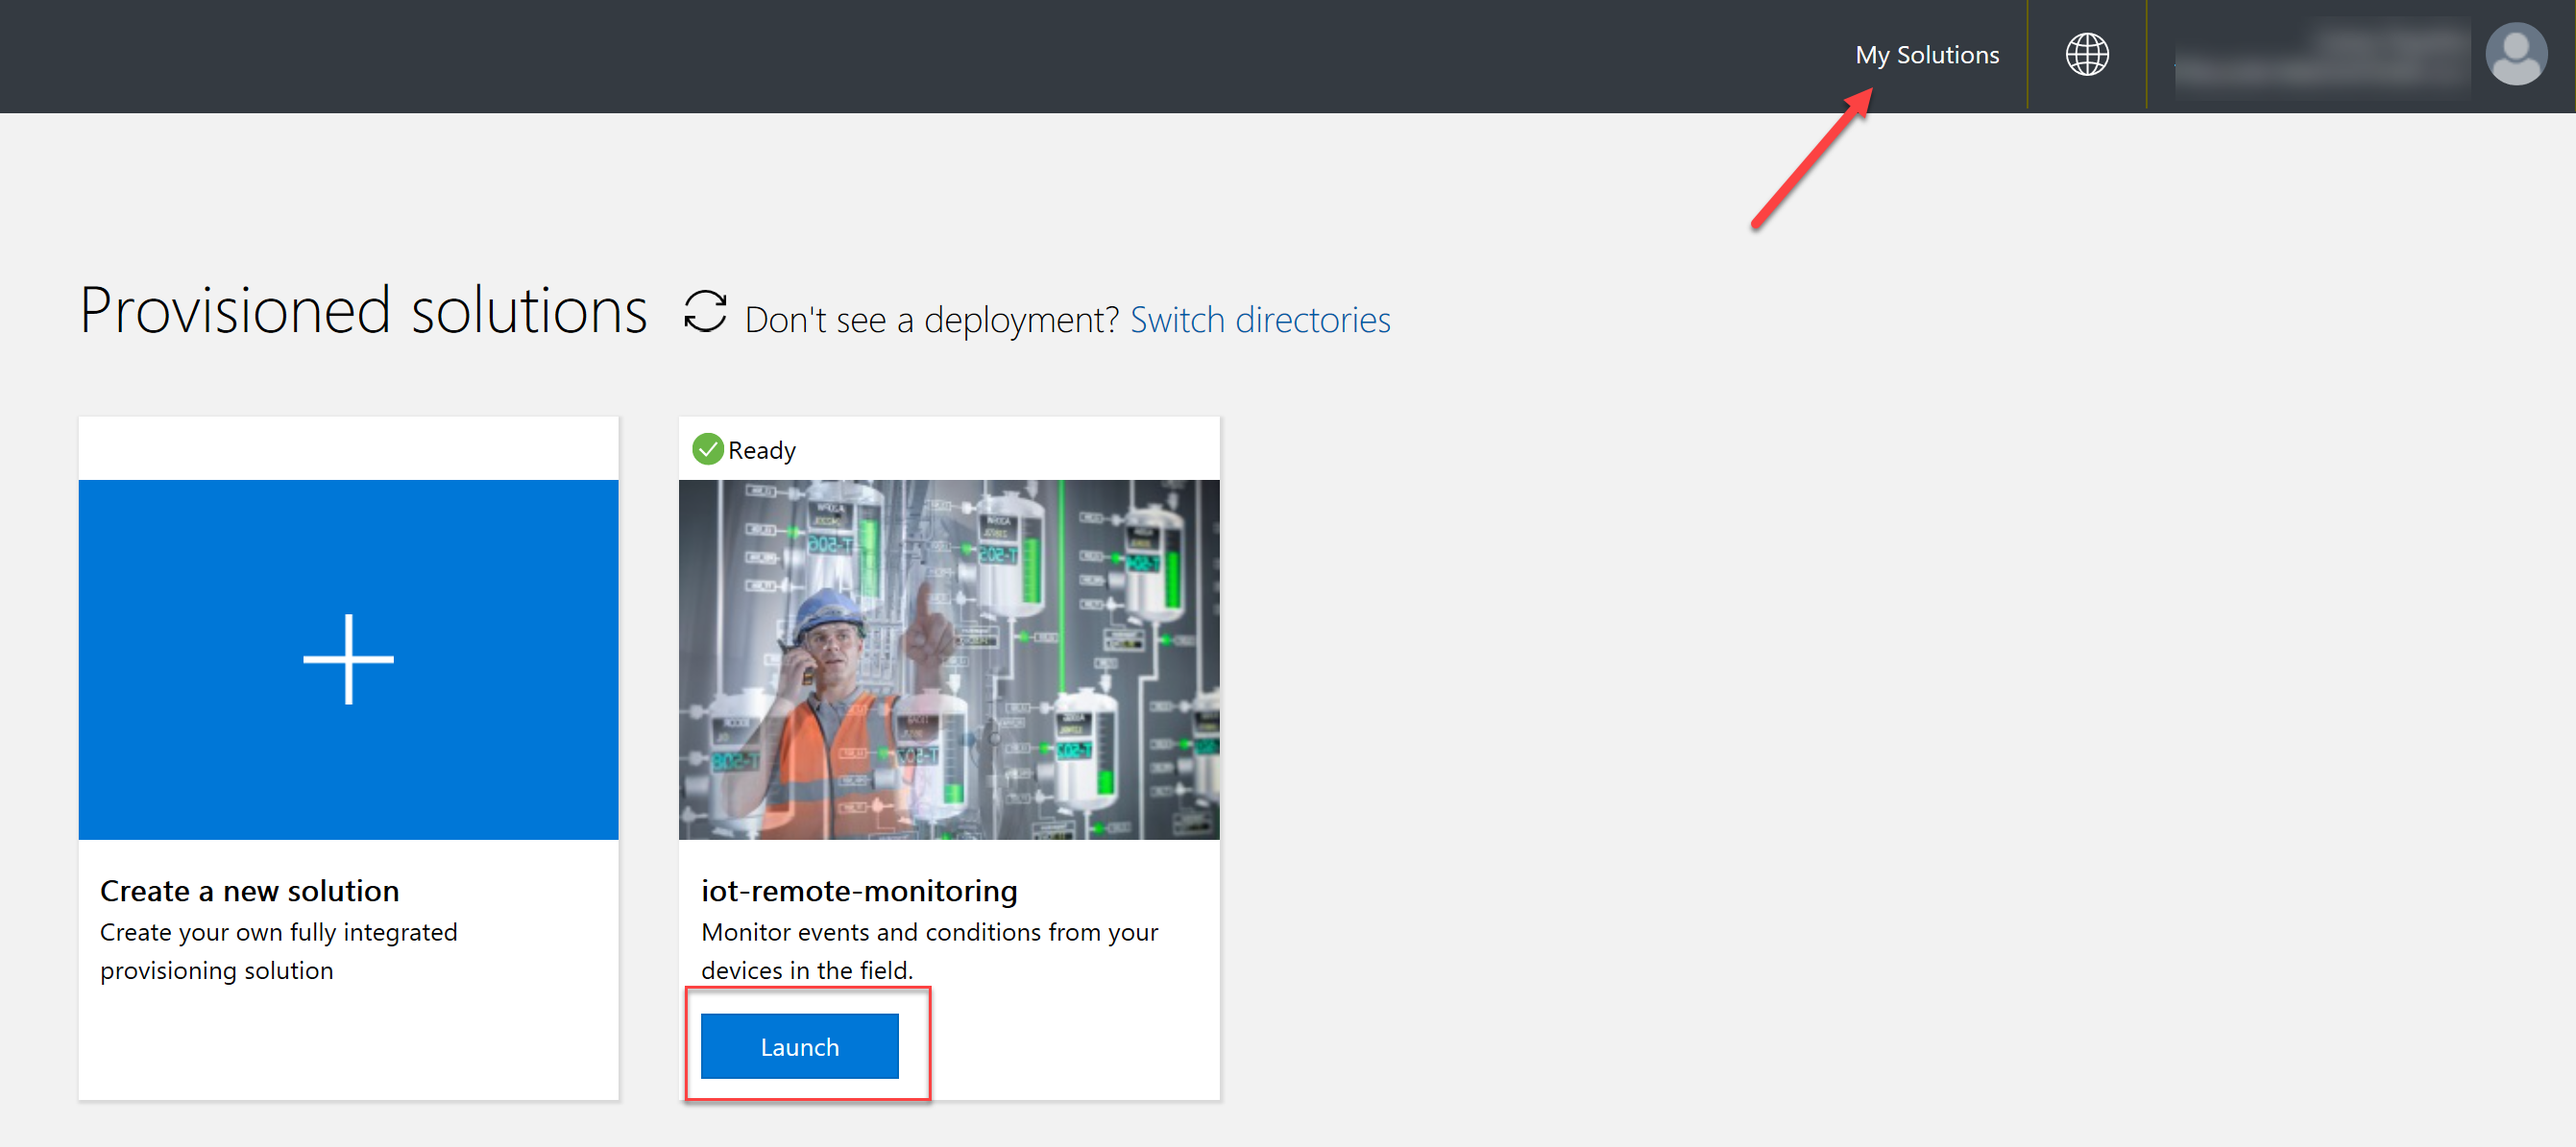
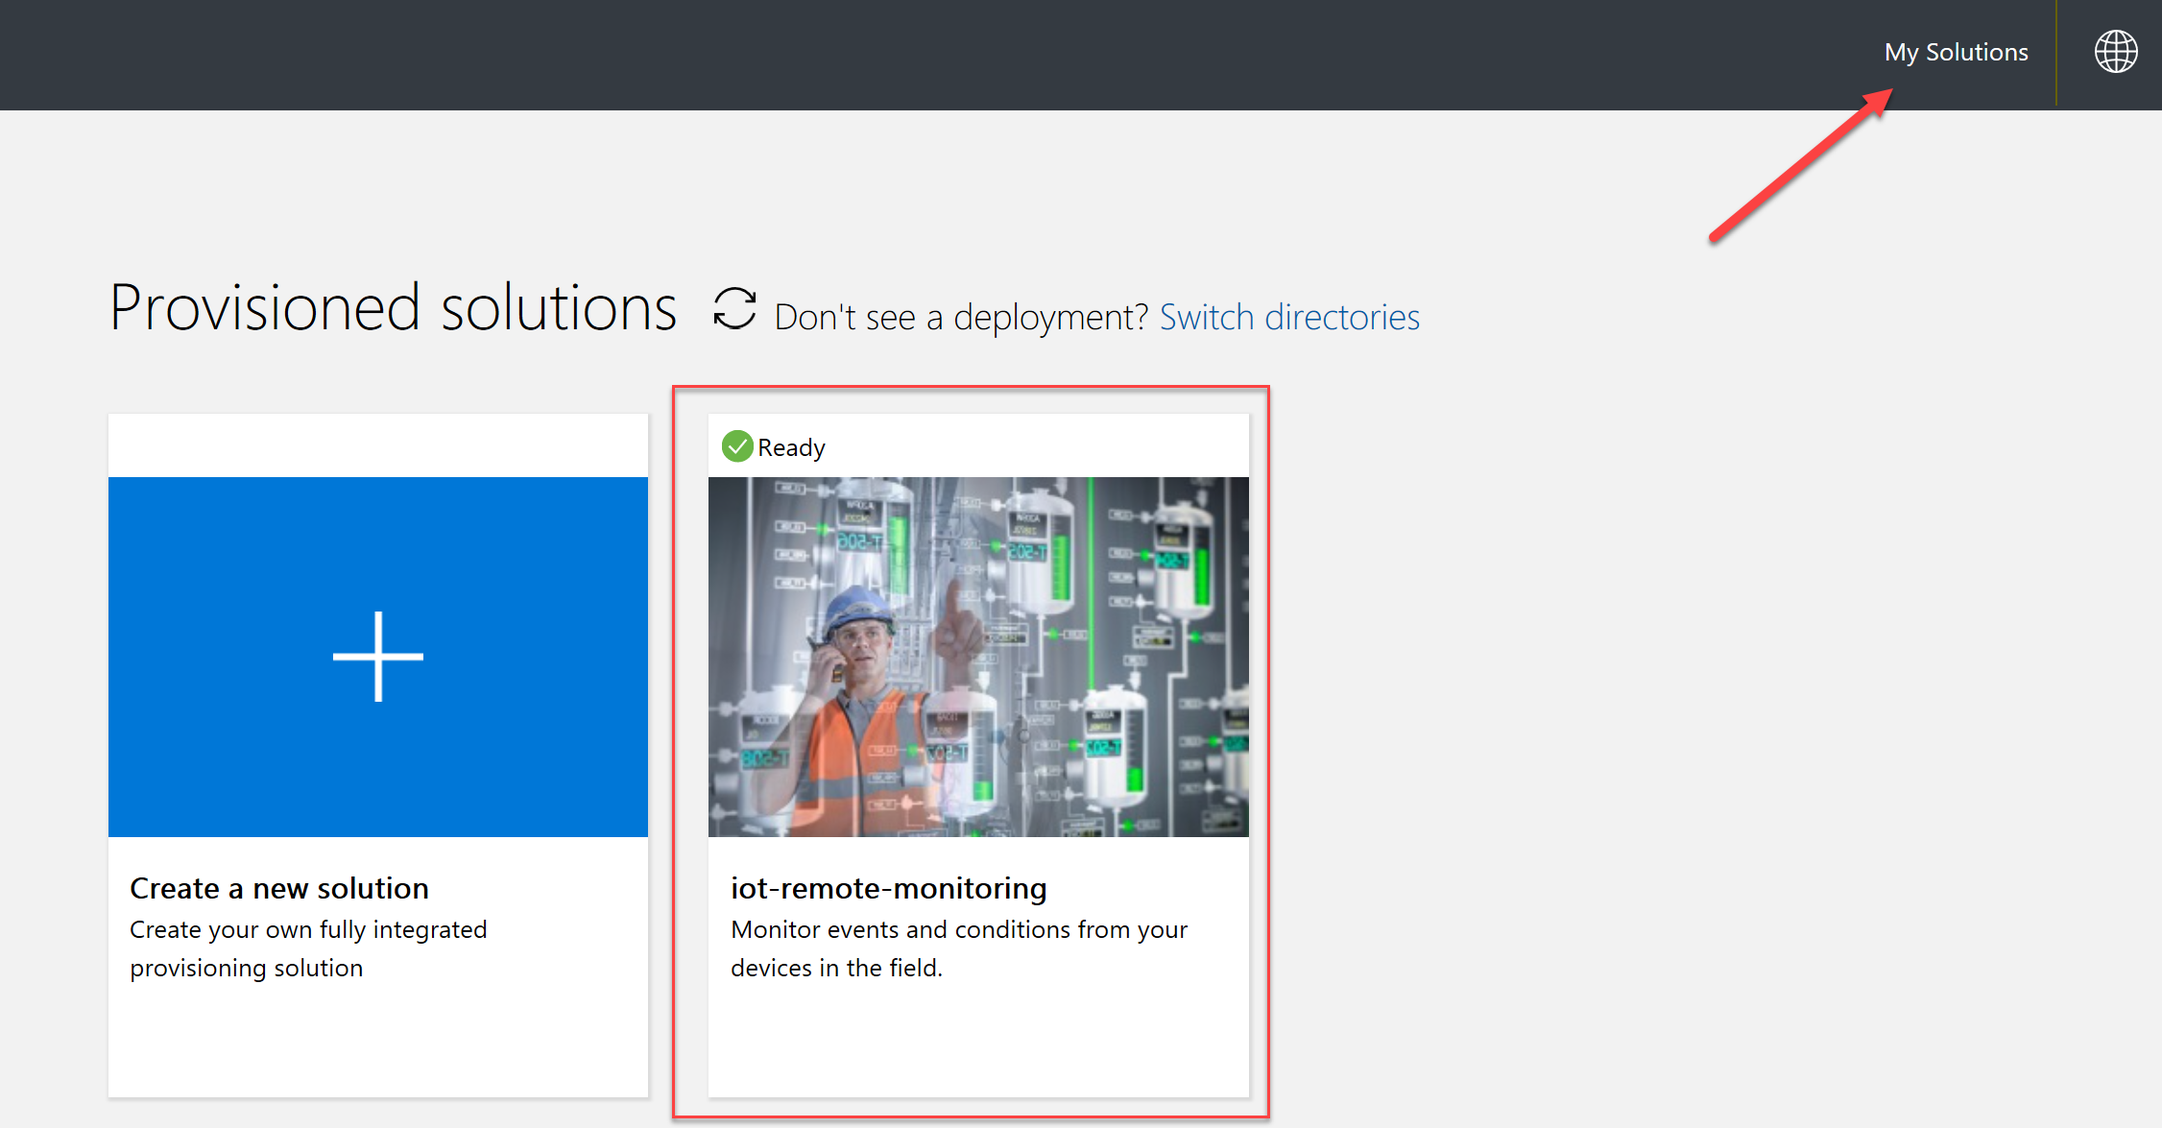
Updated screenshots for the azure iot solution accelerators site.

diff --git a/Hands-on lab/HOL step-by-step - IoT and the Smart City.md b/Hands-on lab/HOL step-by-step - IoT and the Smart City.md
@@ -58,7 +58,7 @@ Microsoft and the trademarks listed at <https://www.microsoft.com/en-us/legal/in
     - [Help references](#help-references-3)
     - [Task 1: Add a new IoT Edge device](#task-1-add-a-new-iot-edge-device)
     - [Task 2: Provision new Linux virtual machine to run as the IoT Edge device](#task-2-provision-new-linux-virtual-machine-to-run-as-the-iot-edge-device)
-    - [Task 3: Create and upload the custom C\# IoT Edge module for vehicle telemetry](#task-3-create-and-upload-the-custom-c-iot-edge-module-for-vehicle-telemetry)
+    - [Task 3: Create and upload the custom C# IoT Edge module for vehicle telemetry](#task-3-create-and-upload-the-custom-c-iot-edge-module-for-vehicle-telemetry)
     - [Task 4: Create the Azure Stream Analytics IoT Edge module](#task-4-create-the-azure-stream-analytics-iot-edge-module)
     - [Task 5: Deploy custom modules to IoT Edge device](#task-5-deploy-custom-modules-to-iot-edge-device)
   - [Exercise 5: Create an Azure Function to add critical engine alerts to the Service Bus Queue](#exercise-5-create-an-azure-function-to-add-critical-engine-alerts-to-the-service-bus-queue)
@@ -214,9 +214,9 @@ In this exercise, you will take advantage of the 'Remote Monitoring' Microsoft A
 
     ![The remote monitoring solution has completed, a link is displayed that will open the deployed remote monitoring solution.](images/Hands-onlabstep-by-step-IoTandtheSmartCityimages/media/image179.png 'Provisioning Completed')
 
-8. Alternatively, you may access installed accelerators in your account by selecting the **My Solutions** link on the [Azure IoT Solution Accelerators website](https://www.azureiotsolutions.com).
+8. Alternatively, you may access installed accelerators in your account by selecting the **My Solutions** link on the [Azure IoT Solution Accelerators website](https://www.azureiotsolutions.com). Selecting an accelerator from this list will bring you to the screen shown in the previous step, where you can follow the *Go to your solution accelerator* link.
 
-    ![The My Solutions button is selected and a list of deployed solution accelerators for the current logged in user is displayed. The Launch button on the remote monitoring accelerator item is selected.](images/Hands-onlabstep-by-step-IoTandtheSmartCityimages/media/image180.png 'Launch Solution')
+    ![The My Solutions button is selected and a list of deployed solution accelerators for the current logged in user is displayed.The IoT Remote Monitoring Solution is selected.](images/Hands-onlabstep-by-step-IoTandtheSmartCityimages/media/image180.png 'Listing of deployed Azure IoT Accelerators.')
 
 9. Upon launching the Remote Monitoring accelerator, you may be prompted to consent to accessing the Azure Portal to view the resources provisioned. Simply check the **Consent on behalf of your organization** and press the **Accept** button.
 
